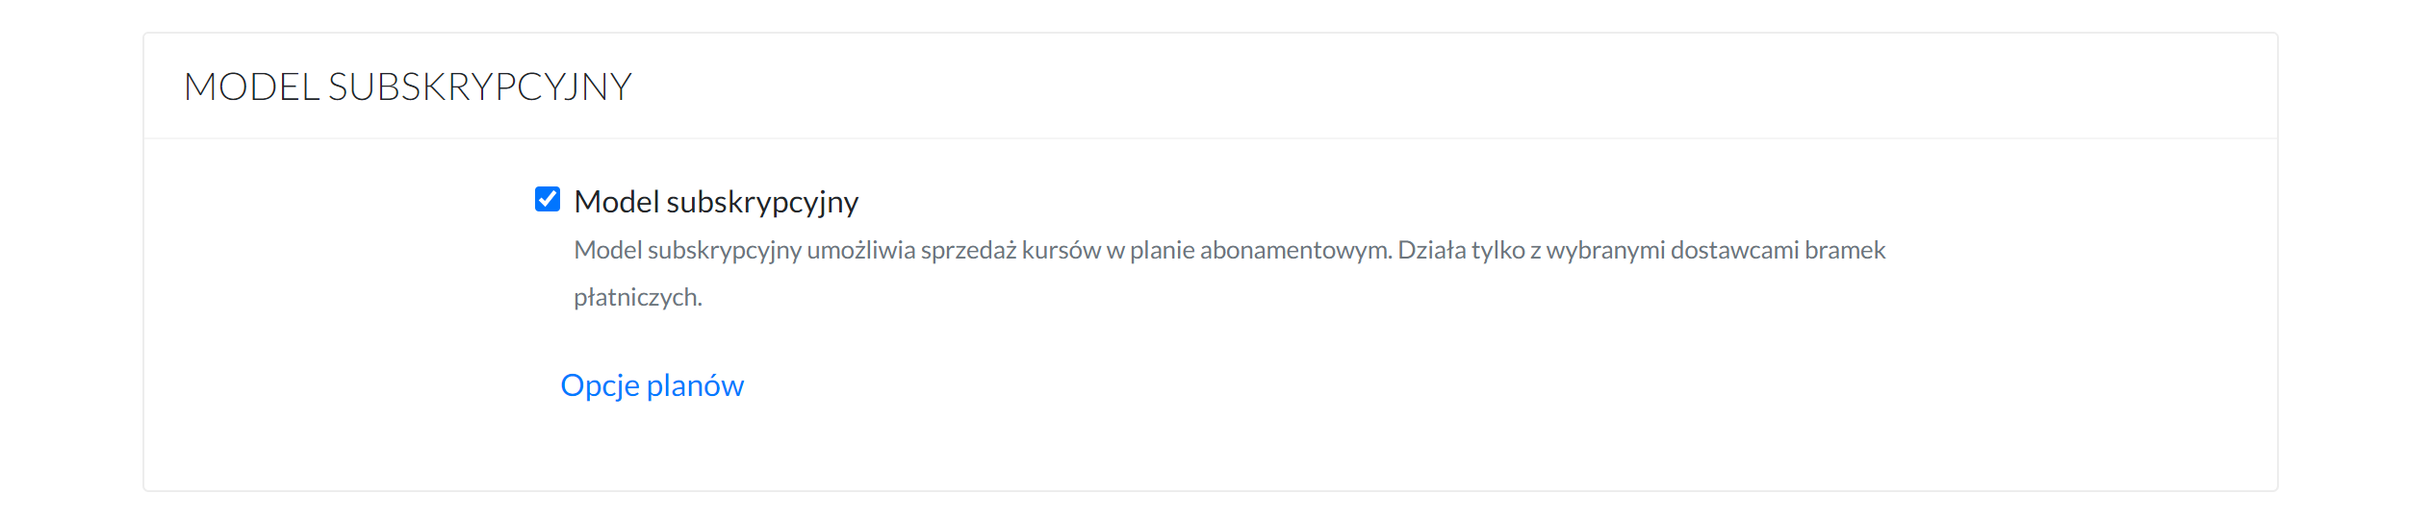
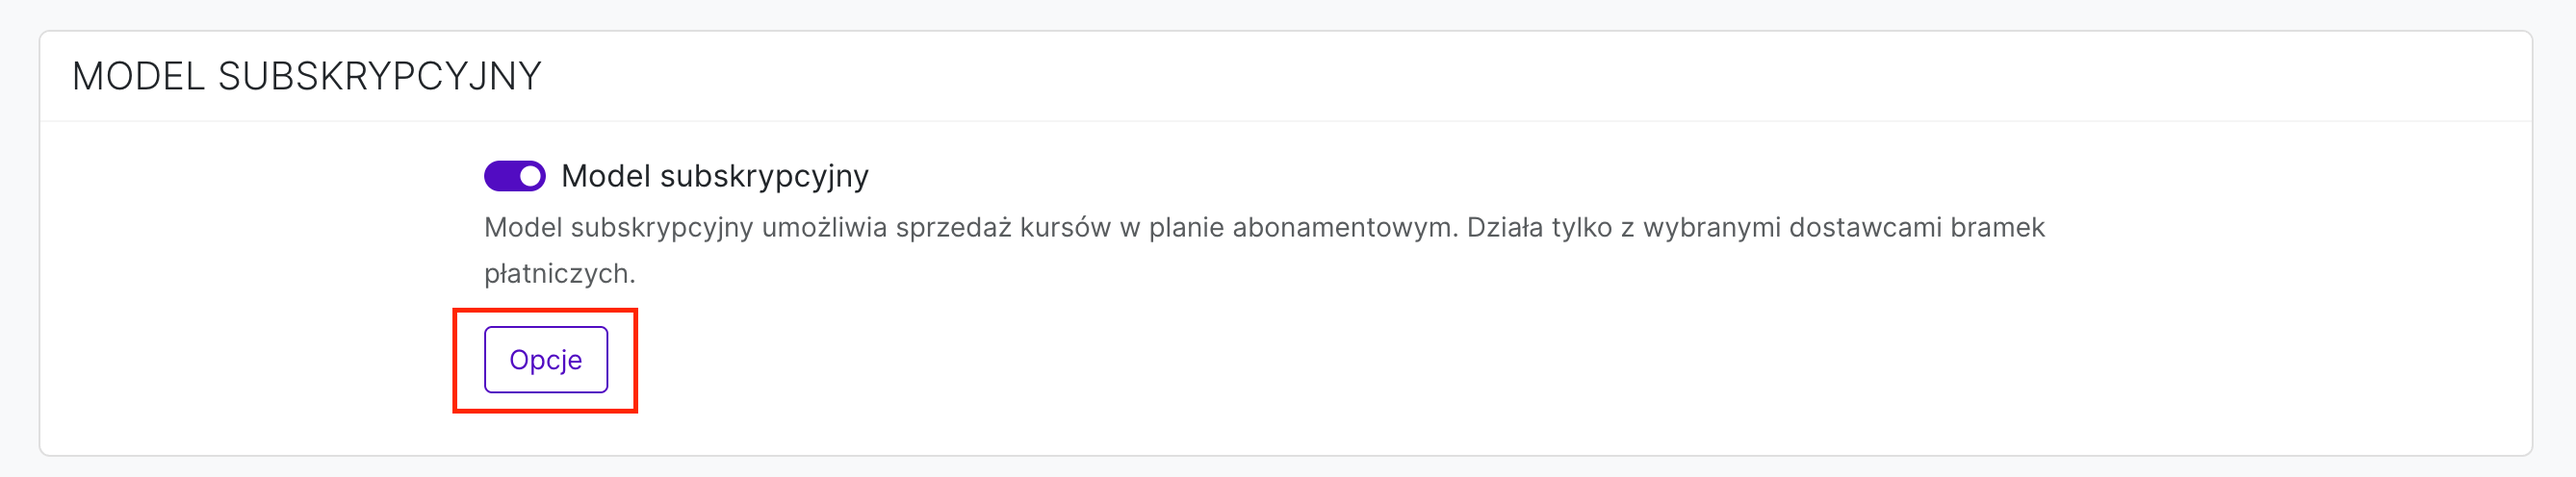
sub

diff --git a/docs/subscription.md b/docs/subscription.md
@@ -4,30 +4,38 @@ date: 2022-10-01
 
 ---
 
-# Subskrypcje
+# Subskrypcja
+
+Aby prowadzić sprzedaż produktów online w modelu subskrypcyjnym trzeba posiadać jeden z następujących system płatności: **PayU, TPay lub Stripe.** 
 
 ## Sprzedaż subskrypcyjna
 Aby włączyć model sprzedaży subskrypcyjnej należy przejść do **Ustawień strony -> Model pobierania płatności -> zaznaczyć opcję *Model subskrypcyjny*.**
 
-<br>
-
-## Sprzedaż subskrypcyjna i jednorazowa
-Aby włączyć model sprzedaży subskrypcyjnej i jednorazowej należy przejść do **Ustawienia konta -> Model pobierania płatności -> zaznaczyć jednocześnie opcje *Jednorazowe płatności i Model subskrypcyjny*.**
-
-![screen-sub-poj](./images/screen-sub-poj.png)
+![screen-sub](./images/screen-sub.png)
 
 
 <br/>
 
 ## Plany subskrypcyjne
 
-Aby ustawić pakiety subskrypcyjne należy przejść do **Ustawienia konta -> Model pobierania płatności -> *Model subskrypcyjny*: *Opcje planów*.**
+Aby ustawić pakiety subskrypcyjne należy przejść do **Ustawienia konta -> Model pobierania płatności -> *Model subskrypcyjny*: *Opcje*.**
 
 ![screen-sub-plany](./images/screen-sub-plany.png)
 
-A następnie wybrać odpowiednie **plany subskrypcyjne.**
+A następnie kliknąć przycisk **Dodaj**. 
 
-![screen-opcja-planow-1](./images/screen-opcja-planow-1.jpg)
+I stworzyć swoje plany subskrypcyjne. Uzupełniamy następujące dane:
+
+* **Nagłówek** - jest to tytuł planu, który będzie widoczny dla użytkownika
+* **Produkty** - wybieramy produkty, do jakich chcemy, aby użytkownicy mieli dostęp w tym planie. Bo w ramach subskrypcji mogą mieć dostęp do wszystkich produktów, jakie są na platformie. Lub tylko do kilku wybranych. Jeśli zostanie wybrana opcja:
+
+- **Wszystko** - to wówczas uczestnicy będą mieli dostęp do wszystkich produktów dostępnych na platformie. Z wyjątkiem produktów, które mają włączoną opcję **Sprzedaż poza subskrypcją**. Co to znaczy? Załóżmy, że na platformie masz 10 kursów wideo, które chcesz udostępniać w ramach subskrypcji. Ale masz też e-book, który (z jakiegoś powodu) nie chcesz, aby wchodził w pakiet subskrypcyjny. Włączenie przy nim opcji [Sprzedaż poza subskrypcją] (https://support.skyier.com/docs/subscription.html#sprzedaz-kursu-poza-subskrypcja) sprawi, że subskrybenci nie będą mieli do niego dostępu w ramach subskrypcji. 
+
+- **Wybrano** - można też wybrać, do których produktów uczestnicy powinni mieć dostęp w ramach subskrypcji. Bo mogą mieć dostęp tylko do kilku wybranych. I jeśli zostanie wybrany produkt, przy którym jest włączona opcja **Sprzedaż poza subskrypcją**, to również wejdzie w skład tego planu. Inaczej mówiąc subskrybenci w tym wypadku będą mieli do niego dostęp. 
+
+* **Studenci mogą przejść na ten plan** - ta funkcja zadziała w sytuacji, kiedy jest stworzonych kilka planów subskrypcyjnych. Np. plan Silver i plan Gold. Włączając tą opcję dajemy możliwość subskrybentom przechodzenia między planami w dowolnym momencie. 
+
+
 
 Do dyspozycji mamy:
 
@@ -94,3 +102,8 @@ Aby włączyć tą opcję należy wejść w **Edycję kursu.**
 A następnie przejść do **sekcji SZCZEGÓŁY** i zaznaczyć opcję *Produkt sprzedawany poza subskrypcją*. 
 
 ![screen-poza-subskrypcja](./images/screen-poza-subskrypcja.png)
+
+## Sprzedaż subskrypcyjna i jednorazowa
+Aby włączyć jednocześnie model sprzedaży subskrypcyjnej i jednorazowej należy przejść do **Ustawienia konta -> zaznaczyć jednocześnie opcje *Jednorazowe płatności i Model subskrypcyjny*.**
+
+![screen-sub-poj](./images/screen-sub-poj.png)

diff --git a/docs/sales.md b/docs/sales.md
@@ -630,6 +630,8 @@ Po wyprzedaniu wszystkich ilości na stronie sprzedażowej (checkoucie) napis na
 
 ![screen-wylaczenie-sprzedaz-2](./images/screen-wylaczenie-sprzedaz-2.png)
 
+<br>
+
 ## Limit dostępu do produktu
 
 Aby włączyć limit sprzedaży produktu należy wejść w **Edycję produktu.** 
@@ -640,6 +642,6 @@ A następnie przejść do **sekcji SZCZEGÓŁY** i ustawić limit dostępu do pr
 
 Można ustawić limit:
 
-* **czasowy** - pozwala przydzielić dostęp do produktu np. na 90 dni. Odliczanie zaczyna się od dnia dokonania zakupu przez użytkownika. 
+* **czasowy** - pozwala przydzielić dostęp do produktu np. na 90 dni. Odliczanie zaczyna się od dnia dokonania zakupu przez użytkownika. Po tych dniach dostęp zostanie odebrany automatycznie.
 * **w oparciu o datę** - należy wybrać datę, do kiedy uczestnicy powinni mieć dostęp do produktu. Po tej dacie dostęp zostanie odebrany automatycznie. 
 

diff --git a/docs/live.md b/docs/live.md
@@ -89,6 +89,8 @@ Jeśli natomiast chcesz zostawić dodatkowe informacje osobom zapisanym na webin
 
 **Ważne** Po zakończeniu transmisji YouTube automatycznie nagra Ci wideo. Wideo to będzie również dostępne w platformie. Jeśli nie chcesz, aby była możliwość jego późniejszego oglądania to usuń to wideo z YT lub usuń ze Skyier embed url. 
 
+<br>
+
 ### Przekształć w kurs online
 
 ![screen-skyier-live-4](./images/screen-live-course-online.png)
